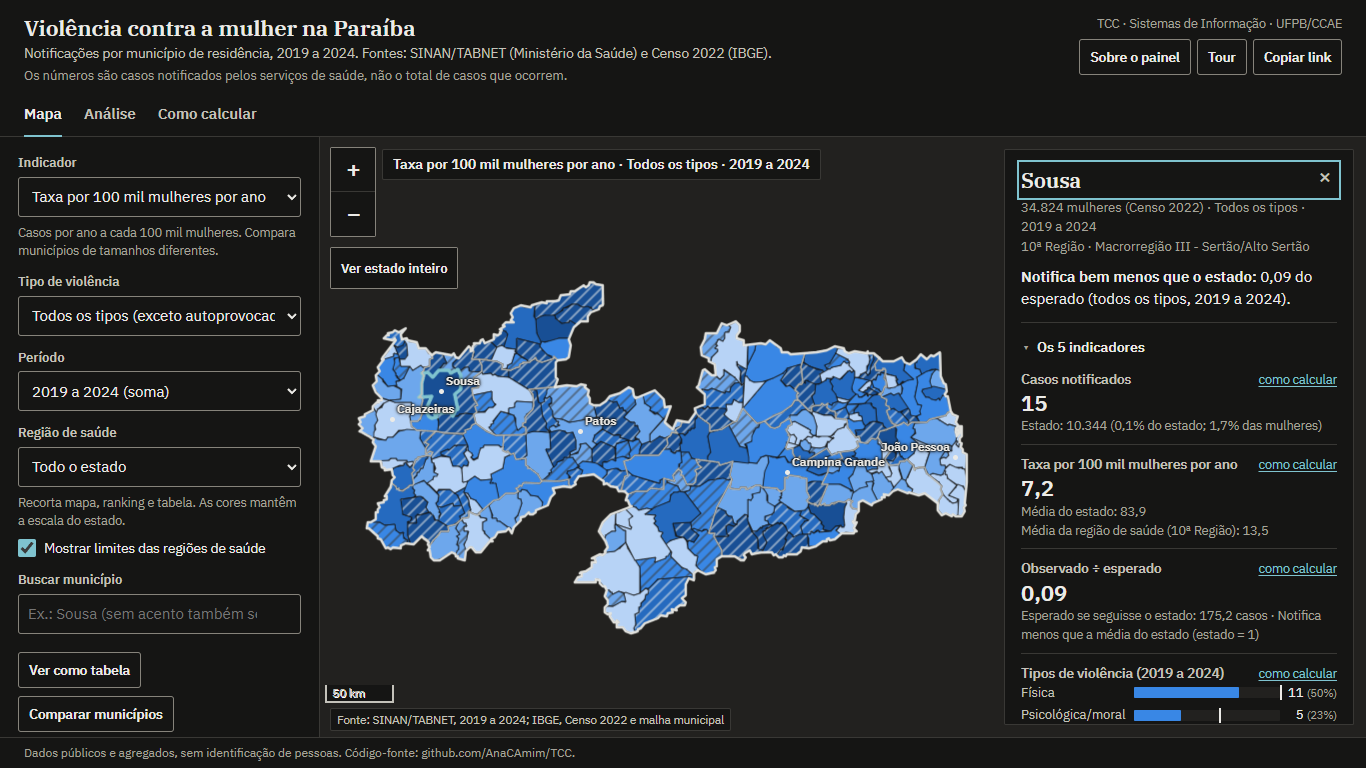
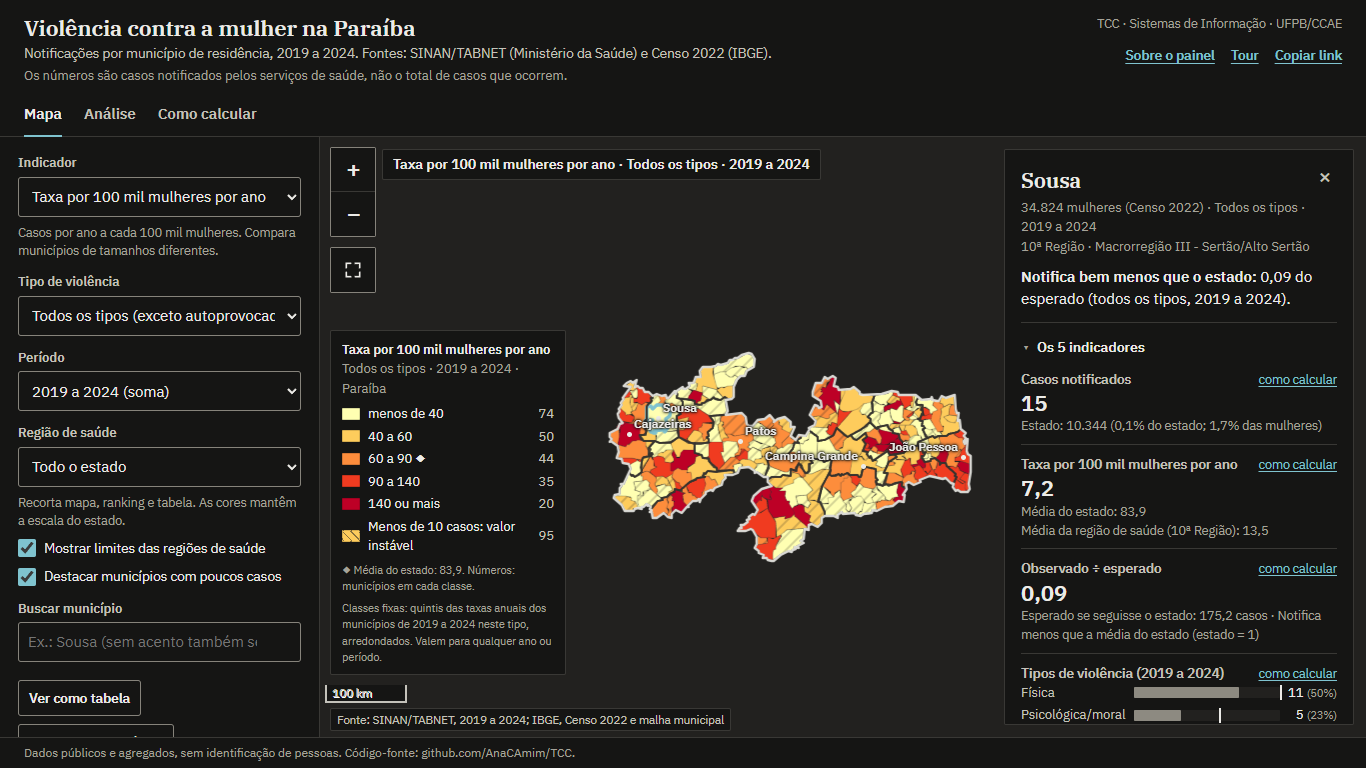
Docs: revisão visual R1–R15 (antes e depois, referências e conferência) e capturas novas

diff --git a/docs/websig_usabilidade.md b/docs/websig_usabilidade.md
@@ -167,3 +167,52 @@ Conferência:
 - Testes novos: área dos círculos de João Pessoa, Campina Grande e Sousa proporcional aos casos (r² ÷ casos constante; maiores atrás); hachura exatamente nos 95 municípios com menos de 10 casos (igual à view) e contagem por classe somando 223; enquadramento com a ficha aberta no computador e no celular; PNG gerado nos dois modos de abertura; rótulos sem sobreposição; regiões ligam e desligam; limite da região escolhida destacado; contraste da hachura ≥ 3:1 nos dois temas.
 - Testes: dados 67, painel 138 (Firefox e WebKit 137), usabilidade 32, 0 falhas.
 - Lighthouse local (com compressão): celular 97 e 98 de desempenho (antes 99) e 100 de acessibilidade; computador 100 e 100. A primeira versão ficou em 95: o mapa era desenhado e logo reenquadrado na abertura. Calcular a vista antes de pôr as camadas e adiar contornos e rótulos para depois do primeiro desenho recuperou quase toda a diferença.
+
+## Revisão visual a partir da auditoria do site publicado (ramo `bases-contexto`, 20/11/2026)
+
+Dados, SQL, fórmulas, indicadores e funções não mudaram. O front anterior está em `backup/etapa6/`, fora do repositório (o acabamento antigo virou `backup/etapa6_acabamento/`).
+
+### Princípios adotados
+
+1. **Escala sequencial: claro = baixo, escuro = alto, sempre**, também no tema escuro. O leitor tende a ler a cor mais escura como "mais" (*dark-is-more bias*); inverter a escala no tema escuro faria o mesmo município parecer alto num tema e baixo no outro.
+2. **Passos de claridade uniformes** entre classes vizinhas, para que a distância visual corresponda à distância entre classes.
+3. **Escala divergente: extremos mais escuros, centro claro.** O centro é o valor de referência (O/E = 1, igual ao estado).
+4. **Cor só onde carrega informação.** Gráficos em cinza neutro; uma única série ou barra destacada na cor institucional; linha de referência cinza e tracejada.
+
+Referências:
+- BREWER, C. A.; HARROWER, M. *ColorBrewer 2.0: color advice for cartography*. Penn State University. Disponível em: https://colorbrewer2.org. Paletas YlOrRd (sequencial) e PuOr (divergente), 5 classes, ambas marcadas como seguras para daltonismo.
+- HARROWER, M.; BREWER, C. A. ColorBrewer.org: an online tool for selecting colour schemes for maps. *The Cartographic Journal*, v. 40, n. 1, p. 27–37, 2003.
+- DATAWRAPPER ACADEMY. *Which color scale to use when visualizing data* e *What to consider when choosing colors for data visualization*. Disponível em: https://academy.datawrapper.de.
+- SCHIEWE, J. Empirical studies on the visual perception of choropleth maps: the dark-is-more bias. *KN – Journal of Cartography and Geographic Information*, v. 74, p. 171–180, 2024.
+
+### Itens (antes → depois)
+
+| # | Elemento | Antes | Depois |
+|---|---|---|---|
+| R1 | Mapa e legenda no tema escuro | Na versão publicada, o fundo do mapa e da legenda ficavam claros no tema escuro | Fundo do mapa e da legenda seguem o tema (no ramo já seguiam; agora um teste mede a luminância do fundo nos dois temas, em 1366 e no celular). As paletas são idênticas nos dois temas: claro continua sendo baixo |
+| R2 | Cores da taxa | Rampa azul própria (#b7d3f6 a #104281), invertida no tema escuro: lá o azul mais escuro era o valor mais baixo | ColorBrewer YlOrRd 5: #ffffb2, #fecc5c, #fd8d3c, #f03b20, #bd0026, igual nos dois temas |
+| R3 | Cores do observado ÷ esperado | Divergente azul–vermelho própria (#1c5cab a #c93b3a), centro bege (#d4cfc4) que no tema escuro virava cinza-escuro (#4a4944), mais escuro que os extremos | ColorBrewer PuOr 5: #5e3c99 (menos de 0,5), #b2abd2 (0,5 a 0,8), #f7f7f7 (0,8 a 1,25), #fdb863 (1,25 a 2), #e66101 (2 ou mais). O limite municipal continua visível sobre a classe central (#f7f7f7) |
+| R4 | Classes da taxa | Quintis recalculados a cada combinação de tipo e período: a mesma cor mudava de significado ao trocar o filtro | Classes fixas por tipo, calculadas uma vez a partir das taxas anuais 2019–2024 de todos os municípios (quintis das taxas positivas, arredondados): total 40/60/90/140; física 30/50/70/120; psicológica 20/30/50/80; sexual 15/25/40/60. Linha na legenda: "Classes fixas: quintis das taxas anuais dos municípios de 2019 a 2024 neste tipo, arredondados. Valem para qualquer ano ou período." |
+| R5 | Legenda com a ficha aberta | No canto inferior direito: com a ficha aberta (também à direita), ficava coberta por ela | Sempre visível no computador, no canto inferior esquerdo, também com a ficha aberta (o enquadramento desconta a largura da legenda e da ficha). No celular, recolhível pelo botão "Legenda" (aria-expanded); com a ficha aberta, continua escondida para o mapa caber na tela |
+| R6 | Cores dos gráficos | Quatro cores genéricas (uma por tipo), sem hierarquia | Cinza neutro; uma série destacada em azul-petróleo (Sexual na série anual e no gráfico de tipos; a faixa com mais casos e a de maior taxa nos gráficos de faixa etária); linha do estado cinza e tracejada; nenhuma das 4 cores antigas |
+| R7 | Hachura do valor instável | Linha a cada 8 px, sempre ligada | Hachura sutil (1 px a cada 10 px, opacidade mínima que dá contraste ≥ 3:1 com a cor de fundo) e opção "Destacar municípios com poucos casos", ligada por padrão; o item da legenda some quando desligada |
+| R8 | Mini-histograma da legenda | Em todas as classes, inclusive nos quintis (onde as barras eram quase iguais por construção) | Só nas classes fixas do observado ÷ esperado; na taxa, só a contagem de municípios |
+| R9 | Mapa de casos | Pontos das cidades de referência sobre os círculos; círculos na cor institucional | Sem os pontos (rótulos só com halo); círculos laranja-escuro (#d95f02) semitransparentes com contorno branco sobre base cinza clara |
+| R10 | Limites das regiões | Mais finos e mais claros que o necessário para se distinguir dos municipais | Regiões em 1,8 px, cor quase preta (#34322e); municípios em 0,6 px, cinza translúcido. Hierarquia: estado > região > município |
+| R11 | Botões do cabeçalho e do mapa | "Ver estado inteiro" como botão de texto grande; "Sobre o painel", "Tour" e "Copiar link" como botões com borda | "Ver estado inteiro" é um botão de ícone de 44 px junto ao zoom, com aria-label e title; os três do cabeçalho viraram links de texto sem borda |
+| R12 | Rótulos da legenda | Rótulos longos repetindo a unidade em cada classe | Rótulos curtos ("menos de 40", "40 a 60", "2 ou mais"); o significado fica no título ("Observado ÷ esperado (1 = igual ao estado; abaixo de 1, notifica menos)") |
+| R13 | Foco ao abrir a ficha | Foco no título com moldura visível | Foco programático no título (leitor de tela anuncia o município) sem moldura; o foco por Tab nos controles continua com contorno |
+| R14 | Números nos gráficos e na tabela | Todos os valores em negrito; colunas numéricas largas | Valores em peso normal, só o número comentado em negrito; na tabela da Análise, colunas numéricas compactas e alinhadas à direita (largura máxima 820 px) |
+| R15 | Daltonismo e escala de cinza | ΔE mínimo medido, sem conferir a ordem das classes | Conferidas a ordem de claridade (L*) e a diferença mínima entre vizinhas em visão normal, protanopia, deuteranopia, tritanopia e escala de cinza (números abaixo) |
+
+### Conferência
+
+- **Ordem preservada em todas as simulações e em cinza:** na sequencial, L* cai a cada classe; na divergente, forma um V com o centro mais claro.
+- L* sequencial (normal e cinza): 98,4 · 84,5 · 69,7 · 53,8 · 39,5 (menor passo 13,9). Protanopia: menor passo 14,1; deuteranopia 11,5; tritanopia 9,9 (97,2 · 82,0 · 66,1 · 53,5 · 43,6).
+- L* divergente (normal e cinza): 33,8 · 71,7 · 97,2 · 79,7 · 57,4 (menor passo 17,5; protanopia 21,1; deuteranopia 15,4; tritanopia 20,0).
+- ΔE mínimo entre classes vizinhas (iguais nos dois temas): sequencial 24,5 (normal), 19,4 (protanopia), 13,1 (deuteranopia), 16,1 (tritanopia); divergente 33,3 / 26,5 / 23,6 / 25,6.
+- Hachura: linha escura (#262522) com opacidade 0,5 a 0,75 nas classes claras; branca com 0,5 a 0,65 sobre #bd0026 e #5e3c99. Contraste linha × cor de 3,01 a 3,32:1 (mínimo exigido 3:1), conferido nos padrões do próprio mapa.
+- Contagens da legenda (todos os tipos, 2019–2024): taxa 74 / 50 / 44 / 35 / 20, 95 com hachura; observado ÷ esperado 76 / 61 / 42 / 32 / 12.
+- Testes: dados 67, painel 157 (Firefox e WebKit 156), usabilidade 34, 0 falhas. Novos: paletas e classes fixas (iguais em "todos os anos" e em 2024; diferentes por tipo); histograma só no O/E; legenda visível sem cobrir a ficha; foco no título sem moldura; fundo do mapa e da legenda conforme o tema; legenda recolhível no celular; gráficos com uma série destacada; rótulos dentro do mapa; ordem de claridade nas simulações.
+- Lighthouse local (com compressão): celular 98 de desempenho no relatório guardado (quatro rodadas: 93, 97, 98 e 97; mediana 97,5; etapa anterior 97 e 98), computador 100; acessibilidade 100 nos dois.
+- Capturas novas em `capturas/`: `{1366,celular}_{claro,escuro}_mapa_{taxa,oe,casos}.png`, além de `*_mapa_ficha.png` (ficha aberta com a legenda) e `*_analise.png`.

diff --git a/README.md b/README.md
@@ -91,6 +91,10 @@ Views: `vw_indicador_municipio_ano_tipo` (município × período × tipo), `vw_i
 |---|---|---|
 | ![Tela Análise](capturas/1366_claro_analise.png) | ![Tela Como calcular](capturas/1366_claro_como_calcular.png) | ![Tema escuro](capturas/1366_escuro_mapa_ficha.png) |
 
+| Taxa (ColorBrewer YlOrRd, classes fixas) | Observado ÷ esperado (PuOr) | Casos (símbolos proporcionais) |
+|---|---|---|
+| ![Mapa da taxa](capturas/1366_claro_mapa_taxa.png) | ![Mapa do observado ÷ esperado no tema escuro](capturas/1366_escuro_mapa_oe.png) | ![Mapa de casos](capturas/1366_claro_mapa_casos.png) |
+
 A ficha impressa (botão **Imprimir ficha**) sai numa folha limpa, com fonte e data; os testes geram um exemplo em PDF em `capturas/` (não publicado).
 
 ## Qualidade
